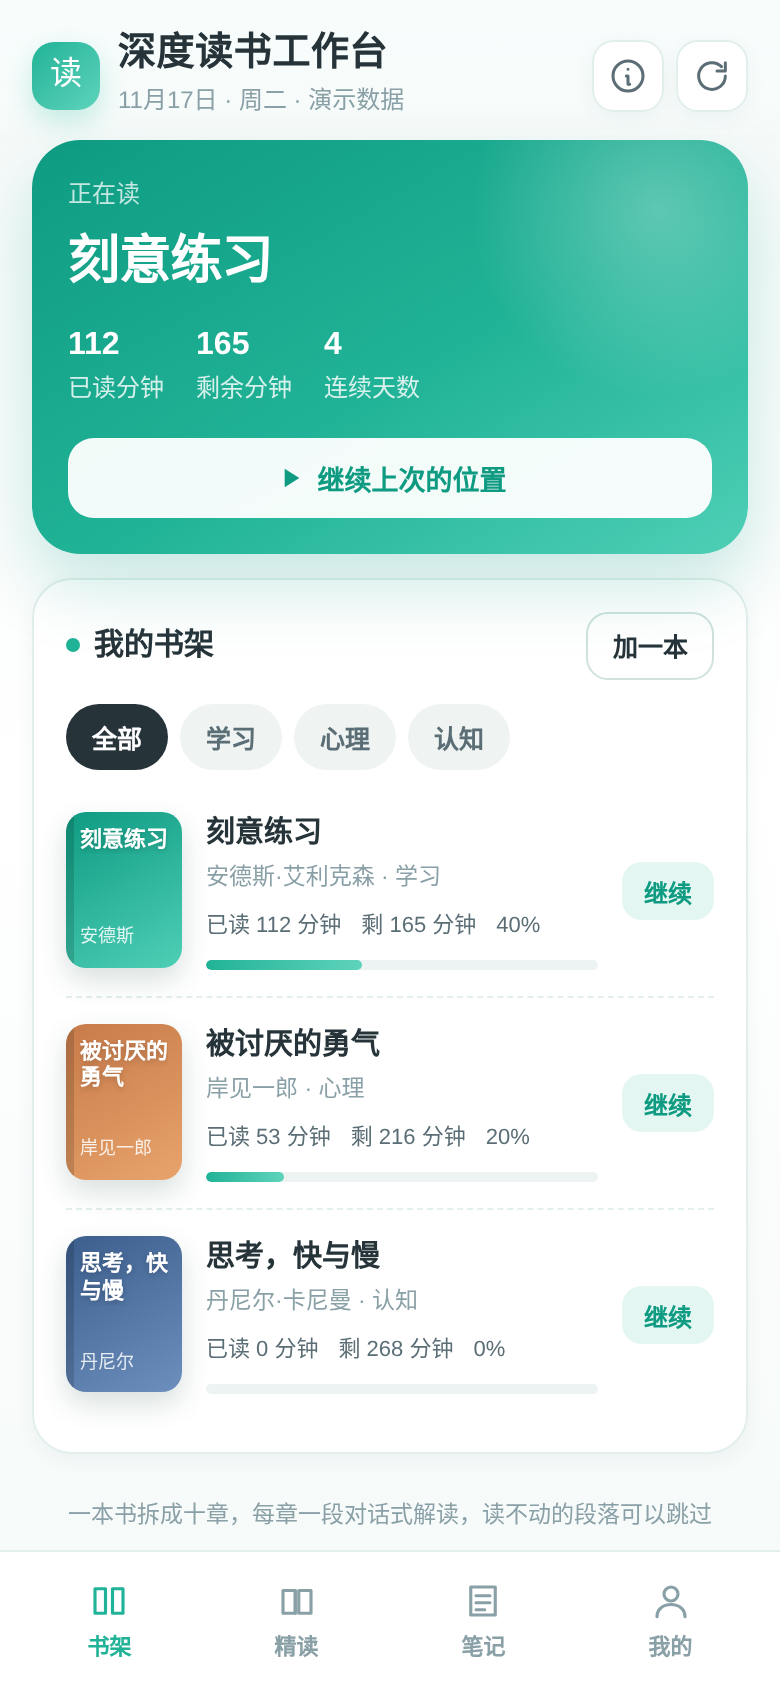
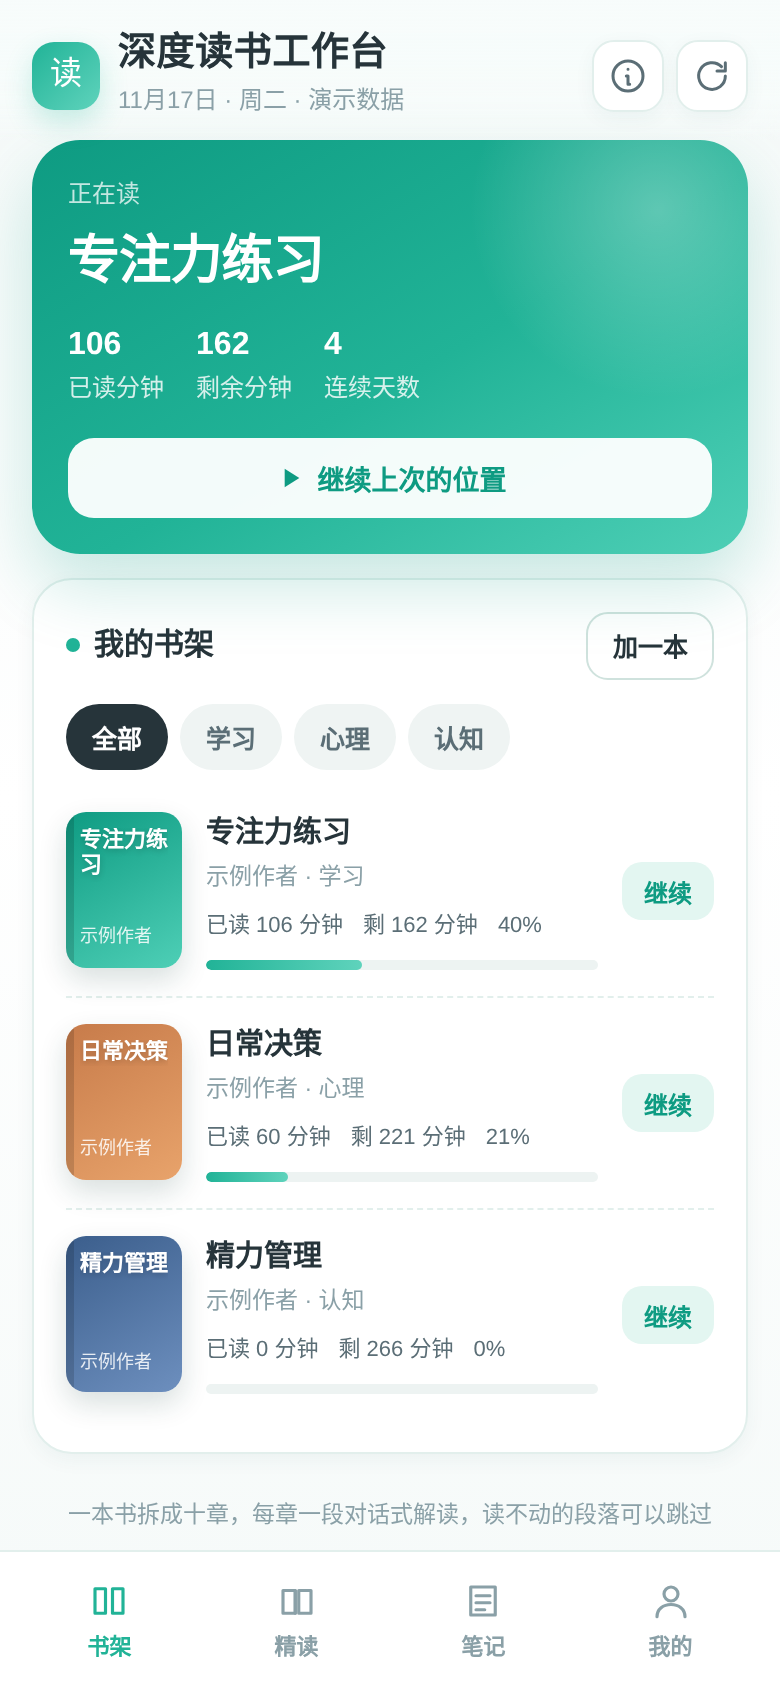
清理演示数据：移除全部个人痕迹，改用通用示例数据

diff --git a/deep-reading-workbench.html b/deep-reading-workbench.html
@@ -364,16 +364,11 @@ const mmss=s=>Math.floor(s/60)+':'+pad(Math.floor(s%60));
 const COVERS=[['#0E9B82','#4ECFB6'],['#C77B4A','#E8A36B'],['#3B5E8C','#6D8FBE'],['#7A5B8C','#A98BC0'],['#8C6B3B','#C9A56A'],['#2F5D57','#5A968C']];
 
 const BOOKPOOL=[
-  {t:'刻意练习',a:'安德斯·艾利克森',c:'学习'},
-  {t:'被讨厌的勇气',a:'岸见一郎',c:'心理'},
-  {t:'思考，快与慢',a:'丹尼尔·卡尼曼',c:'认知'},
-  {t:'纳瓦尔宝典',a:'埃里克·乔根森',c:'财富'},
-  {t:'掌控习惯',a:'詹姆斯·克利尔',c:'习惯'},
-  {t:'原则',a:'瑞·达利欧',c:'决策'},
-  {t:'人类简史',a:'尤瓦尔·赫拉利',c:'历史'},
-  {t:'贫穷的本质',a:'阿比吉特·班纳吉',c:'经济'}
+  {t:'专注力练习',a:'示例作者',c:'学习'},
+  {t:'日常决策',a:'示例作者',c:'心理'},
+  {t:'精力管理',a:'示例作者',c:'认知'}
 ];
-const CHAP_NAMES=['为什么努力了还是没进步','天赋的真相','有目标的练习','反馈比重复重要','心理表征','走出舒适区','刻意练习怎么落地','一万小时的误读','导师与模仿','把练习变成日常'];
+const CHAP_NAMES=['问题从哪里来','常见的三个误解','换一个角度看','关键变量','一个具体例子','怎么开始','怎么坚持下去','怎么判断有效','常见的失败','落到每天的安排'];
 
 function demoData(){
   const books=[];
@@ -395,10 +390,10 @@ function demoData(){
     });
   }
   const notes=[
-    {id:uid(),book:'刻意练习',type:'金句',text:'天才不是天生的，而是练出来的。区别只在于有没有走出舒适区。',date:ymd(new Date(Date.now()-2*DAY)),stage:0},
-    {id:uid(),book:'被讨厌的勇气',type:'金句',text:'一切烦恼都来自人际关系，而自由就是被别人讨厌的勇气。',date:ymd(new Date(Date.now()-5*DAY)),stage:1},
-    {id:uid(),book:'刻意练习',type:'笔记',text:'反馈不是别人夸你，而是知道这一步到底哪里错了。自己练的时候得给自己找一个能对照的标准。',date:ymd(new Date(Date.now()-1*DAY)),stage:0},
-    {id:uid(),book:'思考，快与慢',type:'笔记',text:'快思考负责省力，慢思考负责纠错。大部分错误不是不会想，是懒得慢下来。',date:ymd(new Date(Date.now()-8*DAY)),stage:2}
+    {id:uid(),book:'专注力练习',type:'金句',text:'专注不是把时间拉长，而是把注意力收回来。',date:ymd(new Date(Date.now()-2*DAY)),stage:0},
+    {id:uid(),book:'日常决策',type:'金句',text:'好决定不靠一次想清楚，靠把选项摆到桌面上比较。',date:ymd(new Date(Date.now()-5*DAY)),stage:1},
+    {id:uid(),book:'专注力练习',type:'笔记',text:'每次只做一件事，做完再切换，比同时开五个窗口快。',date:ymd(new Date(Date.now()-1*DAY)),stage:0},
+    {id:uid(),book:'精力管理',type:'笔记',text:'精力低的时候做机械任务，精力高的时候做要动脑的事。',date:ymd(new Date(Date.now()-8*DAY)),stage:2}
   ];
   return {
     books,notes,
